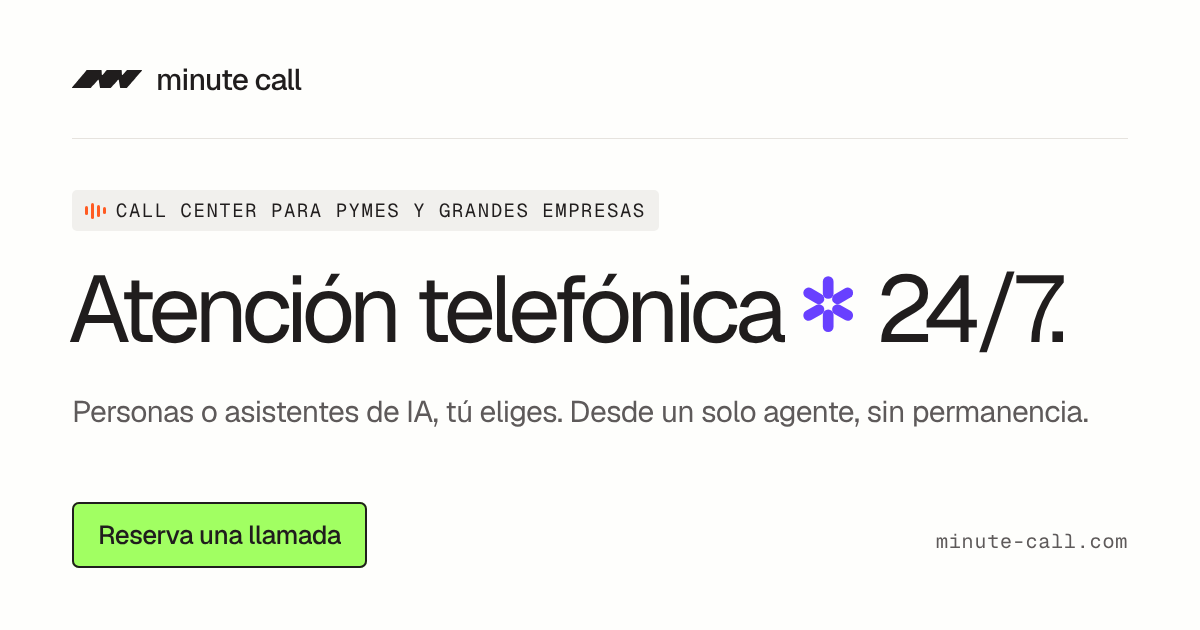
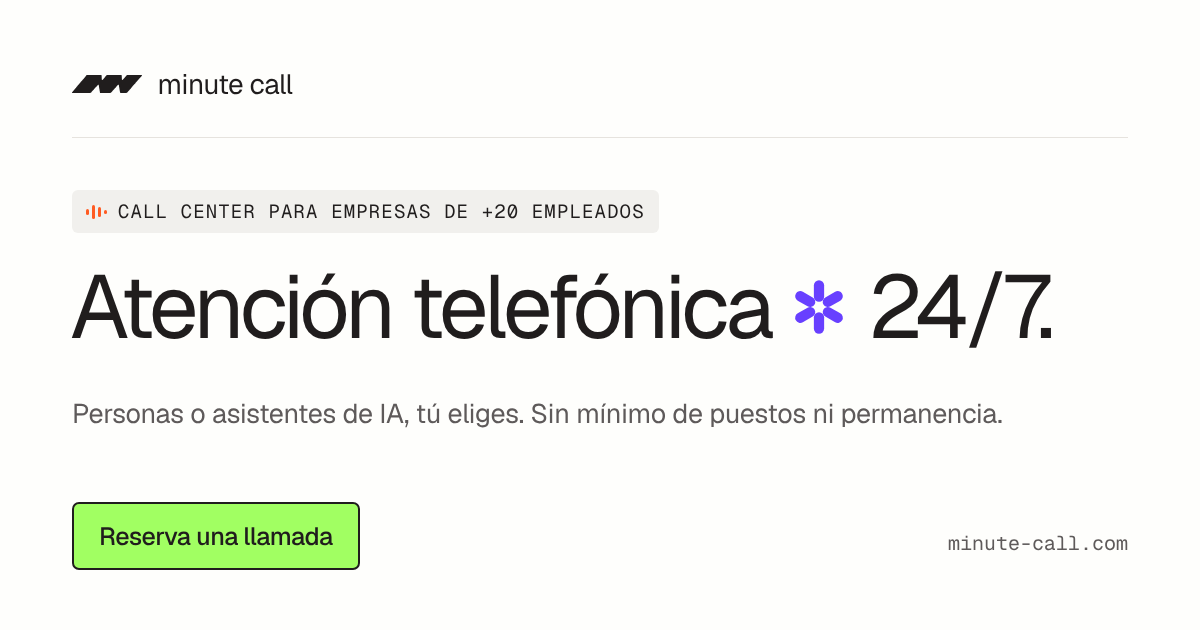
Imagen para compartir: +20 empleados y sin mínimo de puestos (v=3)
Claude-Session: https://claude.ai/code/session_01Jq3pSL1xGrUPKQXJcfgb1U

diff --git a/src/app/layout.tsx b/src/app/layout.tsx
@@ -27,7 +27,7 @@ export const metadata: Metadata = {
     url: "https://www.minute-call.com",
     images: [
       {
-        url: "/og-image.png?v=2",
+        url: "/og-image.png?v=3",
         width: 1200,
         height: 630,
         alt: "Minute Call – Call center para empresas de más de 20 empleados",
@@ -39,7 +39,7 @@ export const metadata: Metadata = {
     title: "Call center para pymes y empresas medianas | Minute Call",
     description:
       "Call center externalizado para empresas de más de 20 empleados. Agentes nativos en España, compartidos o dedicados, desde 13 €/hora. Sin permanencia.",
-    images: ["/og-image.png?v=2"],
+    images: ["/og-image.png?v=3"],
   },
   icons: {
     icon: [
@@ -124,7 +124,7 @@ export default function RootLayout({
                 "alternateName": "Minute Call",
                 "url": "https://www.minute-call.com",
                 "logo": { "@type": "ImageObject", "url": "https://www.minute-call.com/logo.png" },
-                "image": "https://www.minute-call.com/og-image.png?v=2",
+                "image": "https://www.minute-call.com/og-image.png?v=3",
                 "description":
                   "Minute Call es un call center para empresas de más de 20 empleados: agentes nativos en España, compartidos o dedicados, sin mínimo de puestos ni permanencia. Desde 13 €/hora.",
                 "foundingDate": "2024",

diff --git a/src/app/articulos/[slug]/page.tsx b/src/app/articulos/[slug]/page.tsx
@@ -36,13 +36,13 @@ export async function generateMetadata({
       type: "article",
       locale: "es_ES",
       url: `https://www.minute-call.com/articulos/${slug}`,
-      images: [{ url: "/og-image.png?v=2", width: 1200, height: 630, alt: article.metaTitle }],
+      images: [{ url: "/og-image.png?v=3", width: 1200, height: 630, alt: article.metaTitle }],
     },
     twitter: {
       card: "summary_large_image" as const,
       title: article.metaTitle,
       description: article.metaDescription,
-      images: ["/og-image.png?v=2"],
+      images: ["/og-image.png?v=3"],
     },
   };
 }

diff --git a/src/app/atencion-telefonica/[ciudad]/page.tsx b/src/app/atencion-telefonica/[ciudad]/page.tsx
@@ -38,13 +38,13 @@ export async function generateMetadata({
       type: "website",
       locale: "es_ES",
       url: `https://www.minute-call.com/atencion-telefonica/${ciudad}`,
-      images: [{ url: "/og-image.png?v=2", width: 1200, height: 630, alt: city.metaTitle }],
+      images: [{ url: "/og-image.png?v=3", width: 1200, height: 630, alt: city.metaTitle }],
     },
     twitter: {
       card: "summary_large_image" as const,
       title: city.metaTitle,
       description: city.metaDescription,
-      images: ["/og-image.png?v=2"],
+      images: ["/og-image.png?v=3"],
     },
   };
 }

diff --git a/src/app/lp/[slug]/page.tsx b/src/app/lp/[slug]/page.tsx
@@ -29,12 +29,12 @@ export async function generateMetadata({
       type: "website",
       locale: "es_ES",
       url: `https://www.minute-call.com/lp/${slug}`,
-      images: [{ url: "/og-image.png?v=2", width: 1200, height: 630, alt: sector.metaTitle }] },
+      images: [{ url: "/og-image.png?v=3", width: 1200, height: 630, alt: sector.metaTitle }] },
     twitter: {
       card: "summary_large_image" as const,
       title: sector.metaTitle,
       description: sector.metaDescription,
-      images: ["/og-image.png?v=2"] } };
+      images: ["/og-image.png?v=3"] } };
 }
 
 /**

diff --git a/src/app/atencion-telefonica/page.tsx b/src/app/atencion-telefonica/page.tsx
@@ -18,7 +18,7 @@ export const metadata: Metadata = {
     type: "website",
     locale: "es_ES",
     url: "https://www.minute-call.com/atencion-telefonica",
-    images: [{ url: "/og-image.png?v=2", width: 1200, height: 630, alt: "Atención telefónica para empresas en España" }],
+    images: [{ url: "/og-image.png?v=3", width: 1200, height: 630, alt: "Atención telefónica para empresas en España" }],
   },
 };
 

diff --git a/src/app/lp/page.tsx b/src/app/lp/page.tsx
@@ -18,7 +18,7 @@ export const metadata: Metadata = {
     type: "website",
     locale: "es_ES",
     url: "https://www.minute-call.com/lp",
-    images: [{ url: "/og-image.png?v=2", width: 1200, height: 630, alt: "Call center para cada sector" }],
+    images: [{ url: "/og-image.png?v=3", width: 1200, height: 630, alt: "Call center para cada sector" }],
   },
 };
 
